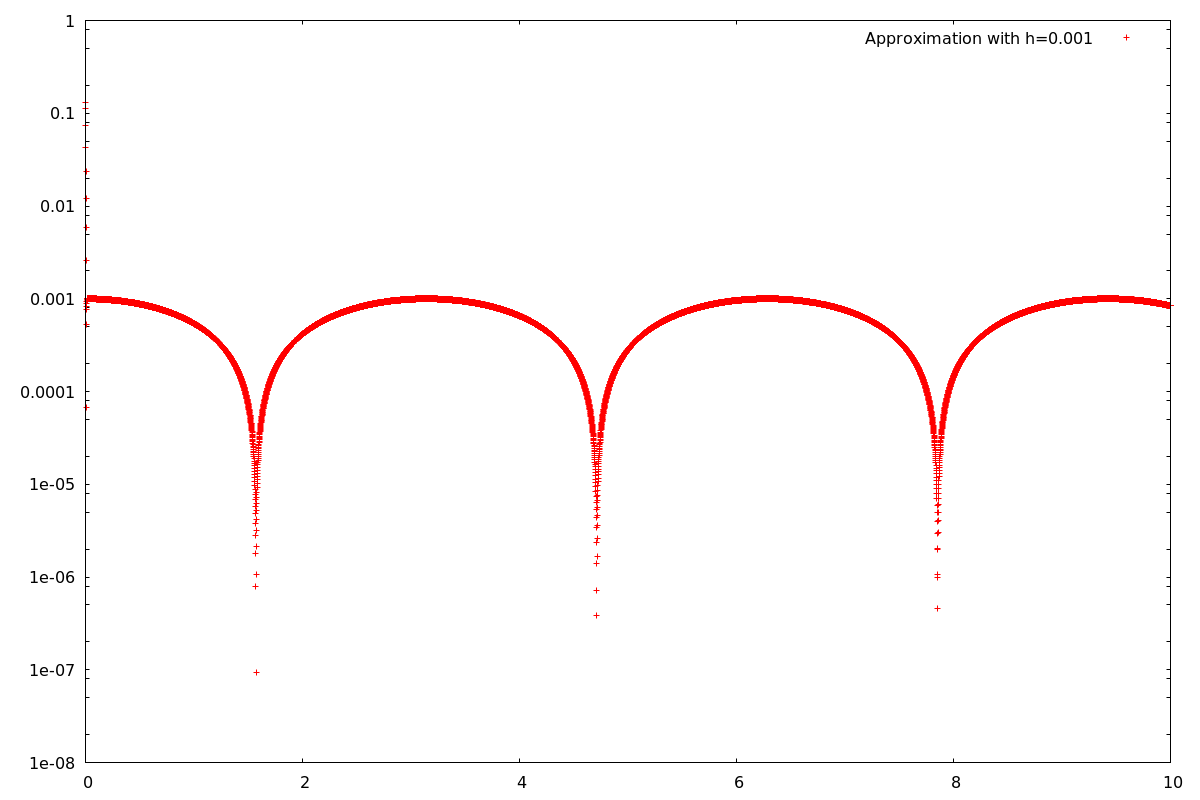
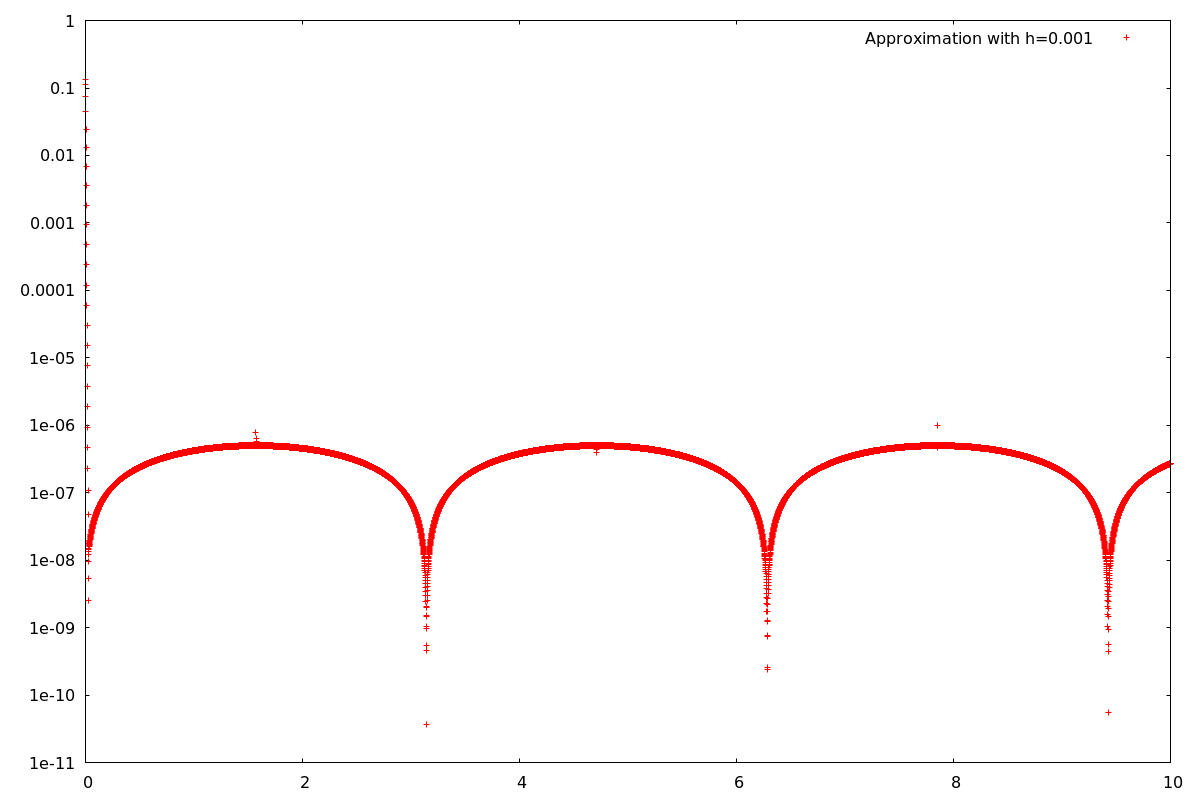
[FIX] implicit euler no longer has phase difference

diff --git a/src/implicit_euler.rs b/src/implicit_euler.rs
@@ -92,11 +92,11 @@ fn implicit_euler_step(
 ) -> f64 {
     let to_solve =
         |(t, x), (last, delta, g): (f64, f64, SimpleDifferentiableFunction<(f64, f64)>)| {
-            last + delta * (g.f)((t, x)) - x
+            last + delta * (g.f)((t + delta, x)) - x
         };
     let to_solve_derivative =
         |(t, x), (_, delta, g): (f64, f64, SimpleDifferentiableFunction<(f64, f64)>)| {
-            delta * (g.df)((t, x)) - 1.0
+            delta * (g.df)((t + delta, x)) - 1.0
         };
     let func: ClosureDifferentiableFunction<
         (f64, f64),

diff --git a/examples/task03_4.rs b/examples/task03_4.rs
@@ -15,6 +15,7 @@ const IMAGE_DIR: &str = "./img_task03_4/";
 fn main() -> Result<(), Box<dyn Error>> {
     create_dir_all(IMAGE_DIR)?;
 
+    // @Me: Wrong! See notes from the exercise.
     let exact = |x: f64, p: Point2D| 1.0 / powi!((x + (1.0 / sqrt!(p.y)) - p.x), 2);
     let exact_samples = 1000;
     let exact_sampled = sample_closure(
